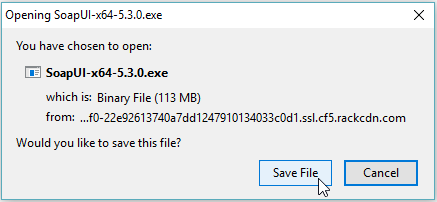
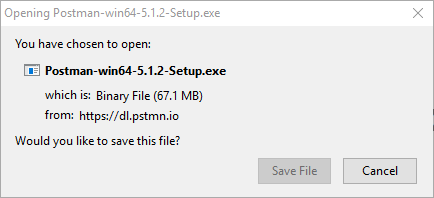
Adding new pre-reqs for postman installation

diff --git a/workshops/ttc-apipcs-ics-workshop/StudentGuide.md b/workshops/ttc-apipcs-ics-workshop/StudentGuide.md
@@ -1,20 +1,21 @@
 <center>![](https://cloudaccelerate.github.io/TTC-CommonContent/images/ttc-logo.png)</center> 
 
-Update: March 30, 2017
+Update: July 27, 2017
 
-# ICS Development Workshop Prerequisites
+# APIPCS / ICS Integration Workshop Prerequisites
 
 ## Required 3rd Party Testing Tools
 
-### Install SoapUI
+### Install Postman
 
-We will use SoapUI to test an ICS Soap Web Service integration.
+We will use Postman to test the API and the policies configured within APIPCS that integrates with a simple integration flow running within ICS.
 
-If you don't already have SoapUI installed on your workstation, you'll need to install it.
+If you don’t have Postman installed on your laptop, you will need to install it.
 
-To install SoapUI for testing the ICS integration follow these instructions:
+To install Postman for testing API and ICS integration, follow these instructions:
 
-- Download the SoapUI OpenSource application for your desktop/laptop from the URL: <https://www.soapui.org/downloads/soapui.html>
+- Download Postman Native Apps for your laptop platform from the following URL:   
+<https://www.getpostman.com/apps>
 
 ![](images/studentguide/image001.png)
 
@@ -22,11 +23,21 @@ To install SoapUI for testing the ICS integration follow these instructions:
 
 ![](images/studentguide/image002.png)
 
-- Run the installer from the temporary directory
-
 ![](images/studentguide/image003.png)
 
-- Install SoapUI on your workstation following the directions provided by SmartBear here: <https://www.soapui.org/getting-started/installing-soapui.html> 
+- Run the installer from the temporary directory
+
+![](images/studentguide/image004.png)
+
+- Postman will start when the installation is completed
+
+![](images/studentguide/image005.png)
+
+- If you get the Postman UI above, select “Take me straight to the app” link
+
+![](images/studentguide/image006.png)
+
+- Refer to this link for more information on Postman installation: <https://www.getpostman.com/docs/postman/launching_postman/installation_and_updates> 
 
 ---
 
